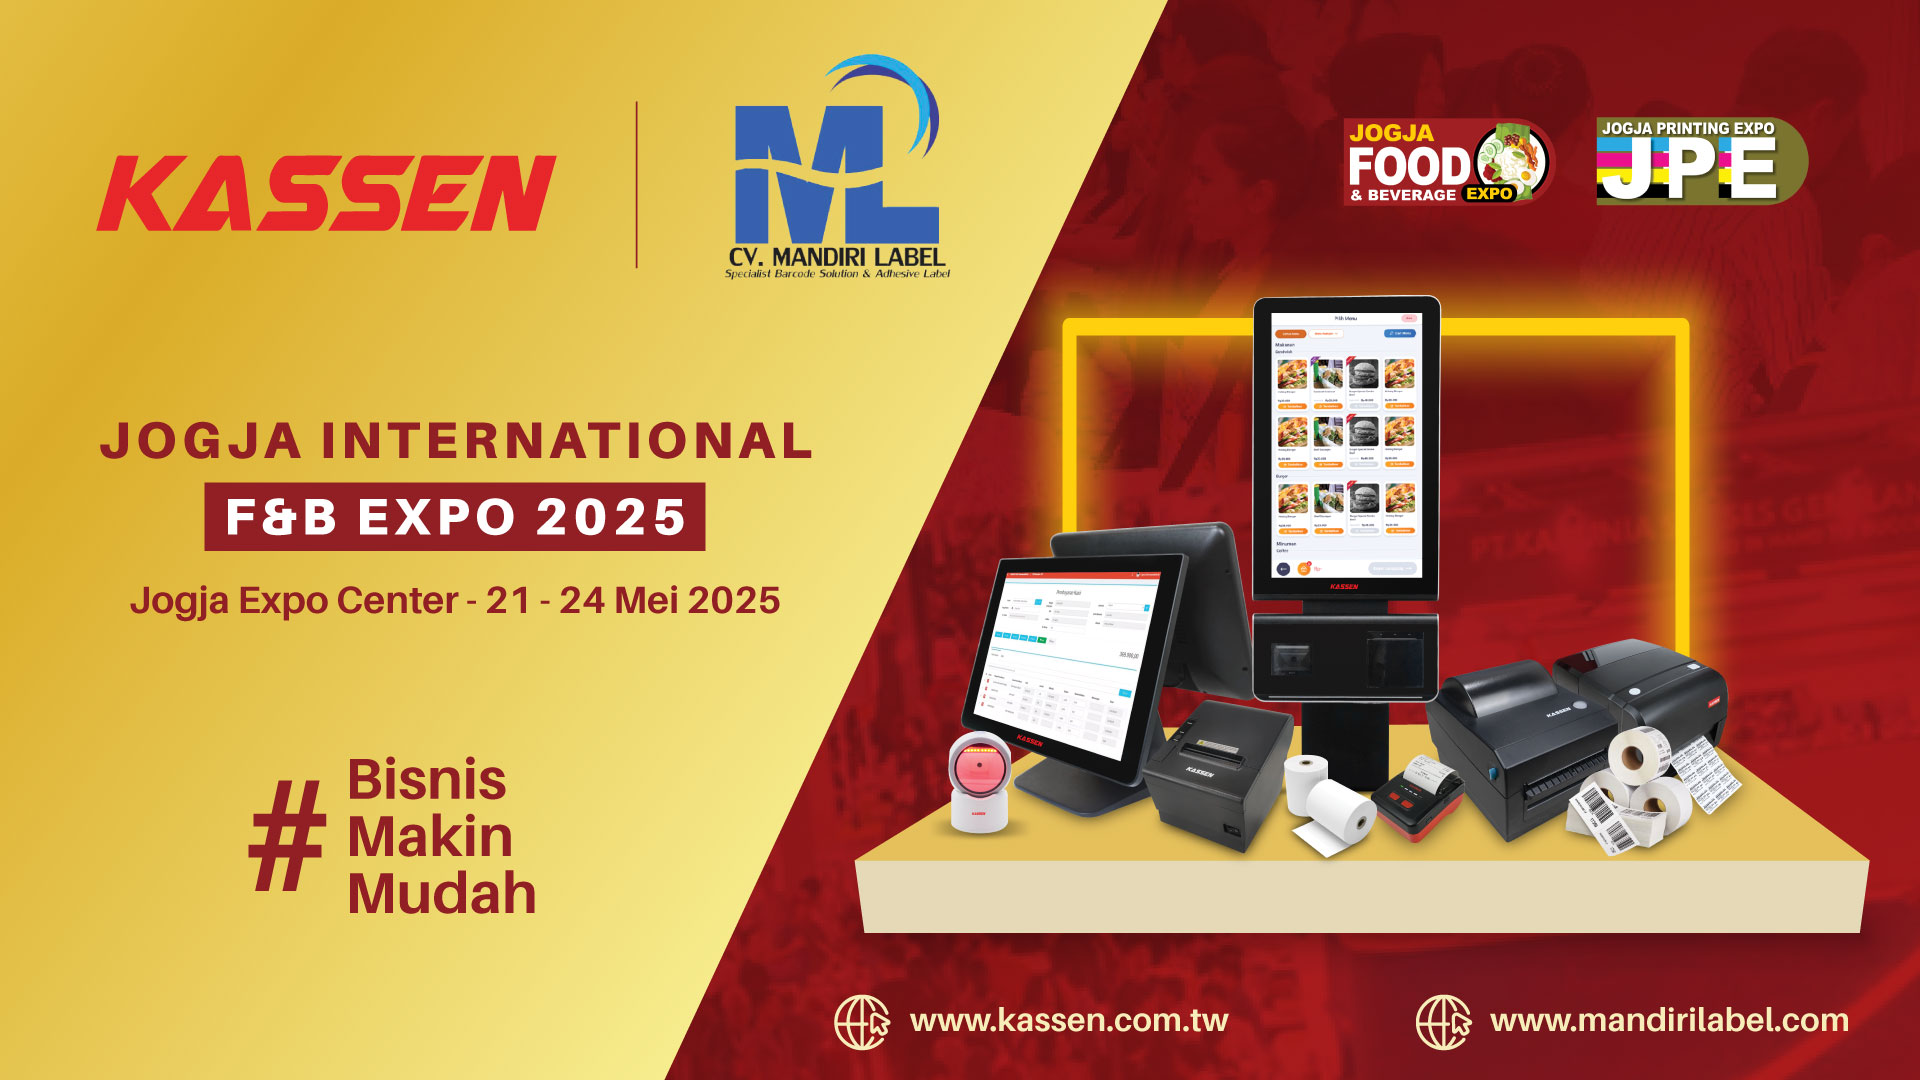
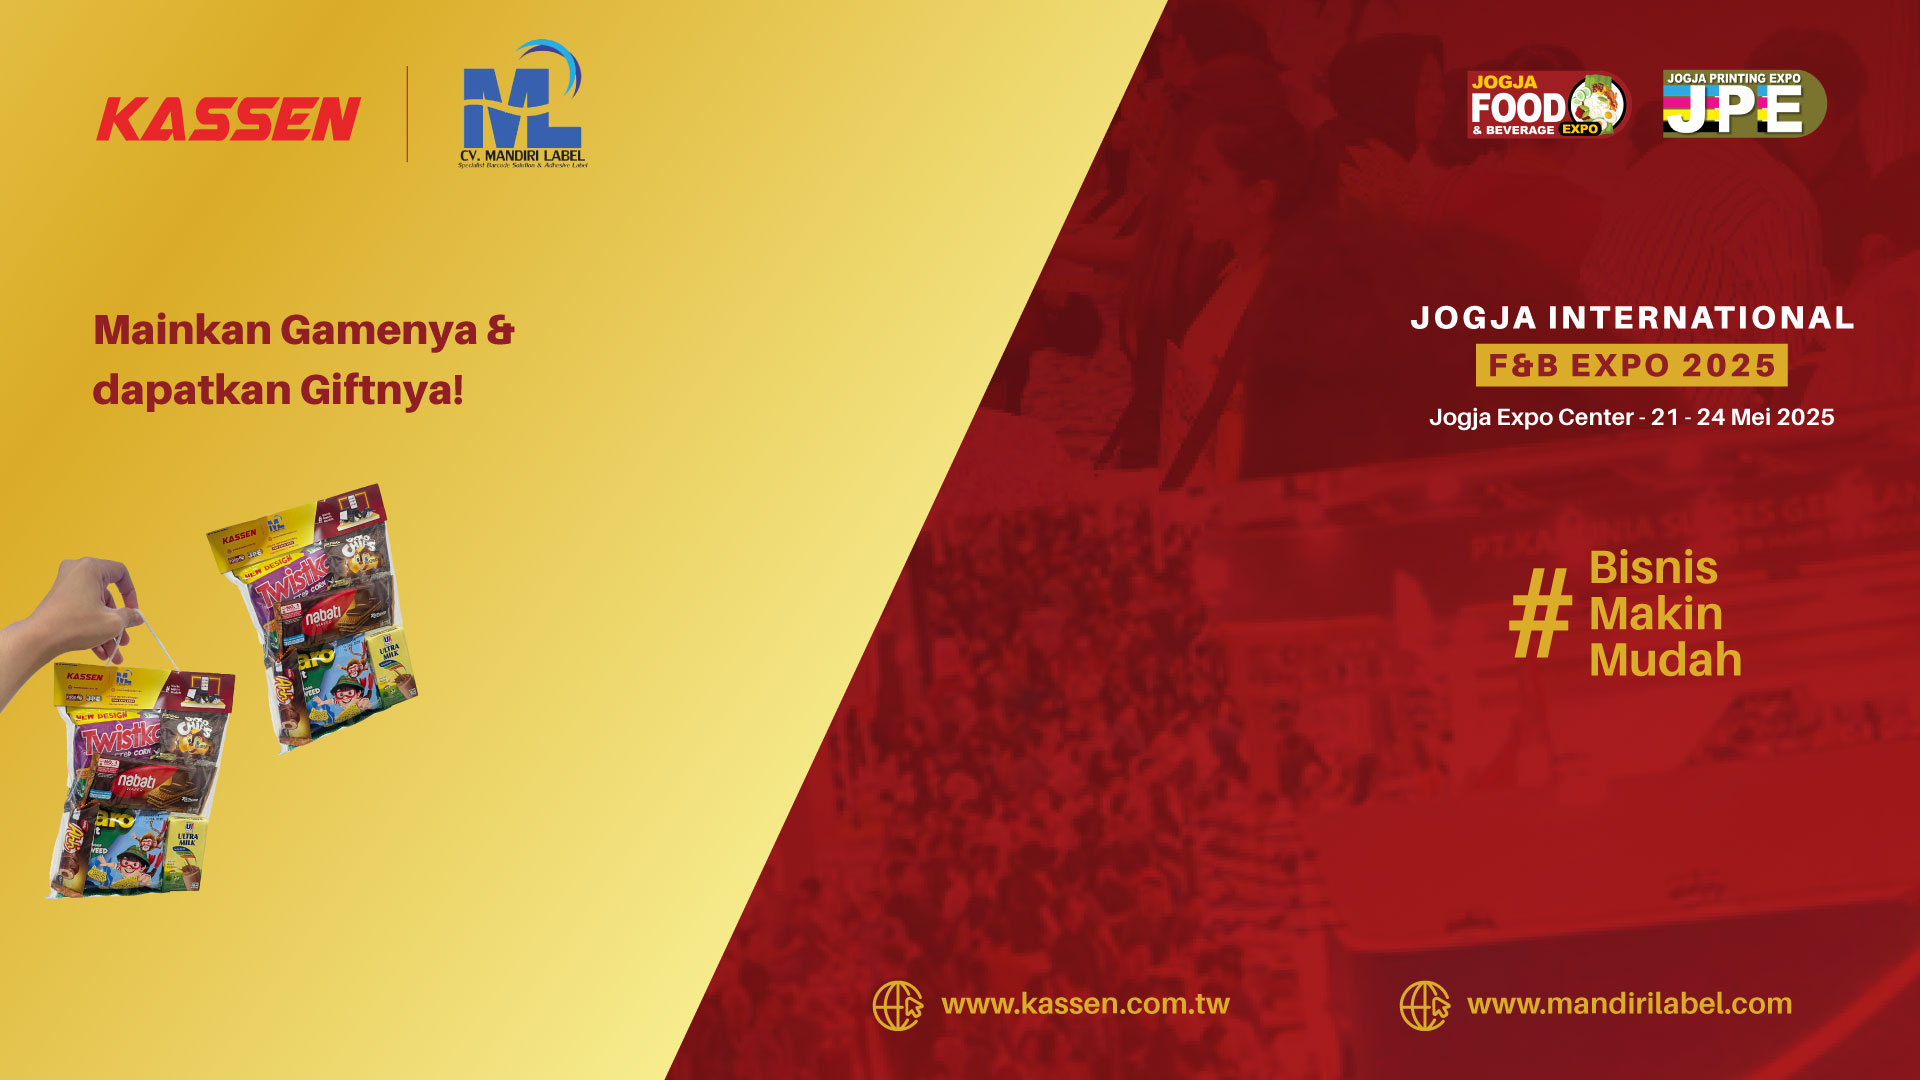
adding animatino dan ganti backdrop

diff --git a/src/app/quiz/[quizId]/page.tsx b/src/app/quiz/[quizId]/page.tsx
@@ -29,6 +29,7 @@ import {
 } from "@/components/ui/alert-dialog";
 import { toast } from "sonner";
 import Image from "next/image";
+import LoadingPage from "@/components/LoadingPage";
 
 function shuffle<T>(array: T[]): T[] {
   return [...array].sort(() => Math.random() - 0.5);
@@ -96,7 +97,6 @@ export default function MemoryGameUI() {
         const reordered: any = userProgress.shuffledSeq
           .map((seqIndex) => qz.images.find((img) => img.index === seqIndex))
           .filter(Boolean);
-        console.log(reordered, "reordered");
         if (reordered) setShuffledImages(reordered);
 
         setCardsVisible(true);
@@ -289,9 +289,10 @@ export default function MemoryGameUI() {
       <div
         className="flex justify-center items-center min-h-screen bg-cover bg-fixed bg-center bg-repeat"
         style={{ backgroundImage: `url(${bgImage.src})` }}>
-        <div className="bg-white p-5 px-7 rounded-lg flex gap-4 items-center">
-          <div className="w-5 h-5 border-2 border-t-2 border-gray-300 border-t-black rounded-full animate-spin"></div>
-          <p className="text-muted-foreground text-lg font-bold ">Loading...</p>
+        <div className=" p-5 px-7 rounded-lg flex gap-4 items-center">
+          {/* <div className="w-5 h-5 border-2 border-t-2 border-gray-300 border-t-black rounded-full animate-spin"></div>
+          <p className="text-muted-foreground text-lg font-bold ">Loading...</p> */}
+          <LoadingPage />
         </div>
       </div>
     );
@@ -299,7 +300,7 @@ export default function MemoryGameUI() {
 
   return (
     <div
-      className="min-h-screen bg-cover bg-fixed bg-center bg-repeat"
+      className="min-h-screen bg-cover bg-fixed bg-top bg-repeat"
       style={{ backgroundImage: `url(${bgImage.src})` }}>
       <div className="min-h-screen flex flex-col justify-start gap-[7vh] sm:gap-[10vh] pb-4 pt-0 px-1 max-w-3xl mx-auto">
         {/* Top Bar */}
@@ -318,7 +319,12 @@ export default function MemoryGameUI() {
           {/* Header */}
           <div className="flex flex-row justify-between items-center sm:items-center gap-2">
             <h1 className="text-2xl font-bold">🧠 Memory Game</h1>
-            <div className="flex gap-2">
+            <div className="flex gap-2 items-center">
+              <Badge
+                variant="secondary"
+                className="hidden sm:block md:text-sm bg-transparent">
+                User: {username}
+              </Badge>
               <Badge variant="outline" className="md:text-base bg-white">
                 Sisa kesempatan: {2 - attempt}
               </Badge>
@@ -341,7 +347,7 @@ export default function MemoryGameUI() {
                 <Button
                   size={"lg"}
                   onClick={() => startQuiz()}
-                  className="w-full sm:w-auto bg-green-400 text-black">
+                  className="w-full sm:w-auto bg-green-600 text-white border-2 border-white">
                   Mulai Kuis
                 </Button>
               </div>
@@ -376,62 +382,68 @@ export default function MemoryGameUI() {
           </div>
 
           {/* Card Grid */}
-          <div className="grid grid-cols-3 sm:grid-cols-3 gap-2 sm:gap-5 mt-4">
-            {isShuffling ? (
-              <div className=" my-[15vh] col-span-full flex justify-center items-center gap-2 text-black">
-                <div className="w-5 h-5 border-2 border-t-2 border-gray-300 border-t-black rounded-full animate-spin"></div>
-                <p className="text-center font-bold">Mengacak pertanyaan...</p>
-              </div>
-            ) : (
-              shuffledImages &&
-              shuffledImages.map((img, i) => (
-                <div key={i} className="bg-red-500 rounded-lg">
-                  <div
-                    key={img.label}
-                    className={`transition-all duration-500 h-full ${
-                      !(!cardsVisible || img.label === showCorrectId)
-                        ? "cursor-pointer"
-                        : "cursor-default"
-                    } ${
-                      wrongCardId === img.label
-                        ? "bg-red-500 animate-pulse"
-                        : ""
-                    }`}
-                    onClick={() => {
-                      if (!cardsVisible || img.label === showCorrectId) {
-                        handleSelect(img.label);
-                      }
-                    }}>
-                    {cardsVisible || img.label === showCorrectId ? (
-                      <Card className="w-full min-h-48 h-full flex gap-y-5 flex-col pb-0 items-center justify-between rounded-lg border-gray-300">
-                        <CardContent className="flex flex-col items-center justify-center gap-2 p-0">
-                          <img
-                            src={img.url}
-                            alt={img.label}
+          <div className="relative">
+            <div className="grid grid-cols-3 sm:grid-cols-3 gap-2 sm:gap-5 mt-4">
+              {shuffledImages &&
+                shuffledImages.map((img, i) => (
+                  <div key={i} className="bg-red-500 rounded-lg">
+                    <div
+                      key={img.label}
+                      className={`transition-all duration-500 h-full ${
+                        !(!cardsVisible || img.label === showCorrectId)
+                          ? "cursor-pointer"
+                          : "cursor-default"
+                      } ${
+                        wrongCardId === img.label
+                          ? "bg-red-500 animate-pulse"
+                          : ""
+                      }`}
+                      onClick={() => {
+                        if (!cardsVisible || img.label === showCorrectId) {
+                          handleSelect(img.label);
+                        }
+                      }}>
+                      {cardsVisible || img.label === showCorrectId ? (
+                        <Card className="w-full min-h-48 h-full flex gap-y-5 flex-col pb-0 items-center justify-between rounded-lg border-gray-300">
+                          <CardContent className="flex flex-col items-center justify-center gap-2 p-0">
+                            <img
+                              src={img.url}
+                              alt={img.label}
+                              className="max-h-24 object-contain"
+                            />
+                            {/* <p className="">{img.label}</p> */}
+                          </CardContent>
+                          <CardFooter className="bg-gray-600 text-white justify-center w-full rounded-b-lg p-2">
+                            <p className="w-full text-center text-xs sm:text-base">
+                              {img.label}
+                            </p>
+                          </CardFooter>
+                        </Card>
+                      ) : (
+                        <div className=" hover:bg-black border border-white min-h-48 h-full bg-gray-700 w-full flex flex-col justify-center items-center gap-2 rounded-lg text-white text-2xl shadow">
+                          <Image
+                            height={20}
+                            src={kassenLogo}
+                            alt={"logo kassen"}
                             className="max-h-24 object-contain"
                           />
-                          {/* <p className="">{img.label}</p> */}
-                        </CardContent>
-                        <CardFooter className="bg-gray-600 text-white justify-center w-full rounded-b-lg p-2">
-                          <p className="w-full text-center text-xs sm:text-base">
-                            {img.label}
-                          </p>
-                        </CardFooter>
-                      </Card>
-                    ) : (
-                      <div className=" hover:bg-black border border-white min-h-48 h-full bg-gray-700 w-full flex flex-col justify-center items-center gap-2 rounded-lg text-white text-2xl shadow">
-                        <Image
-                          height={20}
-                          src={kassenLogo}
-                          alt={"logo kassen"}
-                          className="max-h-24 object-contain"
-                        />
-                        <span className="font-bold">{i + 1}</span>
-                      </div>
-                    )}
+                          <span className="font-bold">{i + 1}</span>
+                        </div>
+                      )}
+                    </div>
                   </div>
+                ))}
+            </div>
+            {isShuffling && (
+              <div className="w-full h-full flex flex-col gap-2 items-center justify-center bg-white/40 backdrop-blur-xs absolute inset-0 rounded-lg">
+                <div className=" bg-white px-7 py-5 rounded-lg col-span-full flex justify-center items-center gap-2 text-black">
+                  <div className="w-5 h-5 border-2 border-t-2 border-gray-300 border-t-black rounded-full animate-spin"></div>
+                  <p className="text-center font-bold">
+                    Mengacak pertanyaan...
+                  </p>
                 </div>
-              ))
+                <LoadingPage isAbsolute={false} />
+              </div>
             )}
           </div>
         </div>

diff --git a/src/components/LoadingPage.tsx b/src/components/LoadingPage.tsx
@@ -1,0 +1,39 @@
+import elomate from "@/assets/kassen-logo.png";
+import Image from "next/image";
+import { motion } from "framer-motion";
+
+const LoadingPage = ({ isAbsolute }: { isAbsolute?: boolean }) => {
+  return (
+    <div
+      className={`${
+        isAbsolute ? "absolute" : ""
+      } inset-0 z-[100] flex justify-center items-center animate-pulse`}>
+      <motion.div
+        initial={{ scale: 0, rotate: 0, opacity: 0 }}
+        animate={{
+          scale: [0, 1.2, 1],
+          // rotate: [0, 360],
+          opacity: [0, 1, 1],
+        }}
+        transition={{
+          duration: 0.2, // Lebih smooth
+          times: [0, 0.1, 1], // Scale selesai di 40% durasi
+          ease: "easeInOut",
+          repeat: Infinity,
+          repeatDelay: 1, // Jeda **1 detik** sebelum animasi berulang lagi
+
+          repeatType: "loop",
+        }}
+        className="bg-white px-7 py-5 rounded-xl">
+        <Image
+          src={elomate}
+          height={45}
+          alt="Elomate United Tractor"
+          unoptimized
+        />
+      </motion.div>
+    </div>
+  );
+};
+
+export default LoadingPage;

diff --git a/src/app/quiz/page.tsx b/src/app/quiz/page.tsx
@@ -15,6 +15,7 @@ import {
 } from "@/components/ui/card";
 import { Input } from "@/components/ui/input";
 import { Label } from "@/components/ui/label";
+import LoadingPage from "@/components/LoadingPage";
 
 function QuizEntryPage() {
   const router = useRouter();
@@ -99,8 +100,7 @@ function QuizEntryPage() {
     );
   }
 
-  if (isLoading)
-    return <p className="p-4 max-w-md mx-auto text-center my-10">loading...</p>;
+  if (isLoading) return <LoadingPage />;
 
   return (
     // <div className="max-w-md mx-auto mt-10 p-4 border rounded">
